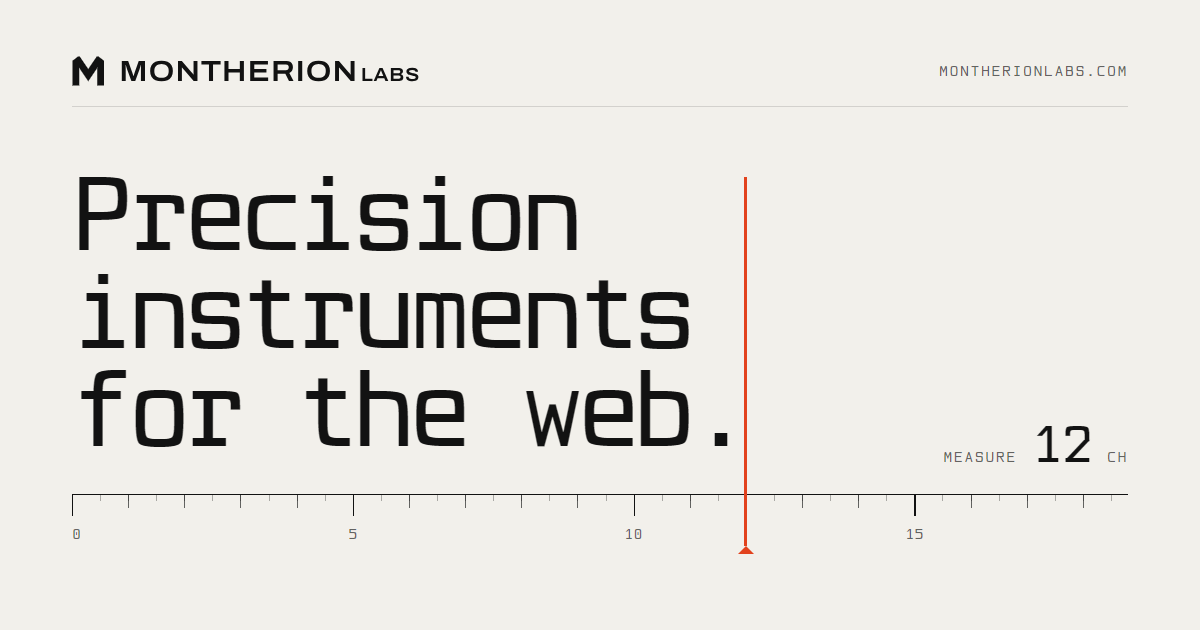
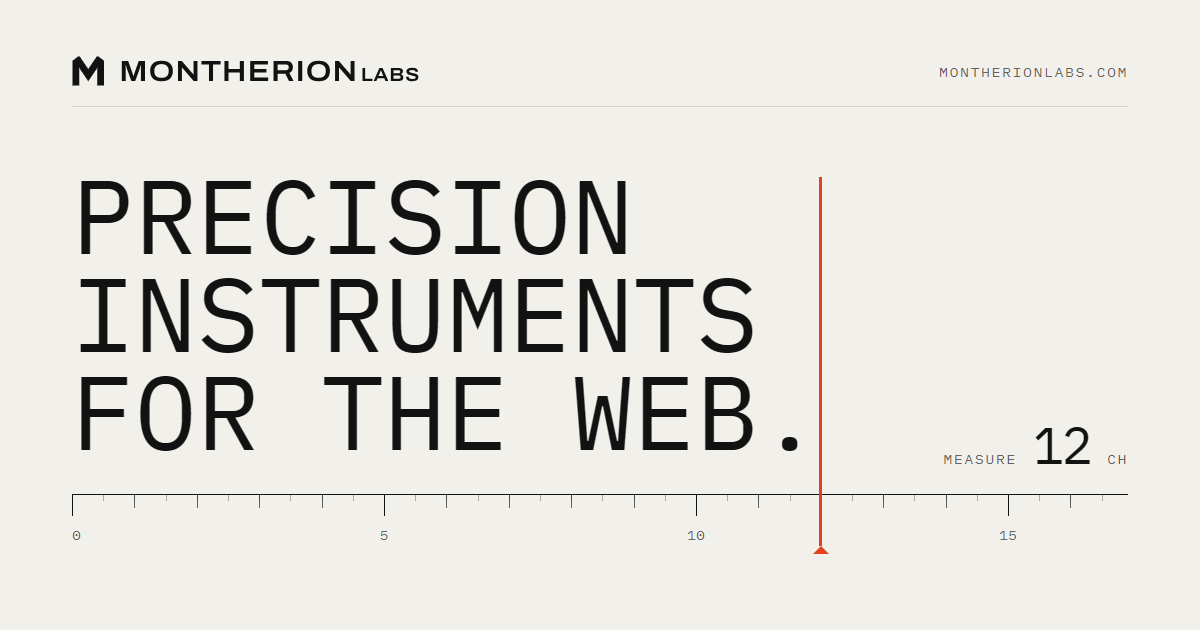
montherionlabs.com: imágenes para redes con IBM Plex Mono y titular sin espaciado negativo
Las imágenes Open Graph (EN y ES) pasan a IBM Plex Mono en mayúsculas. El titular deja el espaciado de −0,06 em (pensado
para Montherion Mono): con Plex en mayúsculas la última letra se salía de su casilla y la aguja de la regla la pisaba en
español. Ahora la unidad de la regla es 0,6 em y la aguja cae justo detrás de la línea más larga.
Suites: 483/483 y 414/414 en Chrome y Edge.

diff --git a/montherion.css b/montherion.css
@@ -45,7 +45,7 @@
   /* Cuerpo del titular: por el ancho (9,4 vw) y por el ALTO de la ventana, para que regla, aguja, lectura y botones
      quepan siempre en la primera pantalla (26-nov: en 1280 × 665, Windows al 150 %, la regla caía al borde). */
   --hf: clamp(56px, min(9.4vw, (100svh - 350px) / 3.14), 150px);
-  --u: calc(var(--hf) * .54);          /* avance de un carácter con el espaciado del titular (0,6 em − 0,06 em) */
+  --u: calc(var(--hf) * .6);           /* avance de un carácter de IBM Plex Mono (0,6 em; el titular va sin espaciado negativo) */
   color-scheme: light;
 }
 
@@ -128,7 +128,7 @@ a:hover .arr.abajo { transform: translateY(2px); }   /* la flecha baja hacia don
 .spec dt { margin-bottom: 8px; }
 .spec dd { font-size: 13.5px; }
 .medida { position: relative; margin-top: clamp(56px, 6vw, 92px); --n: 12; }   /* la línea más larga, en EN y en ES */
-.d1 { font-size: var(--hf); line-height: .94; letter-spacing: calc(var(--hf) * -.06); white-space: nowrap; }
+.d1 { font-size: var(--hf); line-height: .94; letter-spacing: 0; white-space: nowrap; }
 .d1 span { display: block; }
 .regla { position: relative; height: 52px; margin-top: calc(var(--hf) * .32); color: var(--fg); }
 .regla .ticks { position: absolute; inset: 0 0 auto; height: 22px; border-top: 1px solid var(--fg);
